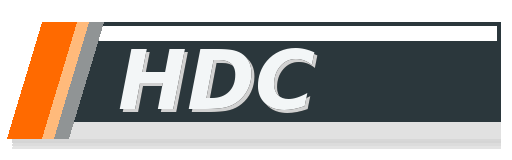
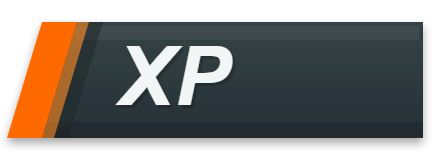
Rework sticker for XP branding; fix band transparency bug
The badge text changes HDC -> XP. Since XP is ~77px narrower in the same
82px Arial Bold Italic, the panel right edge moves 500 -> 423 and the
canvas 512 -> 435, preserving the text-to-edge gap; the slanted stripe
cluster and text position are untouched (no axis scaling).

The regenerated PNG (Chromium render, alpha reconstructed from white/black
passes) also fixes a long-standing artifact: the old PNG renderer punched
the sheen/shade bands and text shadow through the panel as semi-transparent
knockouts, so composited previews showed the screenshot through the sticker.
The bands now composite over the panel as the SVG intended.

HDC_STICKER_WIDTH_FRACTION scales by 435/512 so the badge keeps the same
on-screen size on generated previews.

diff --git a/beamng_hand_drive_core.py b/beamng_hand_drive_core.py
@@ -2237,7 +2237,9 @@ def source_preview_path(source_zip: Path, vehicle_path: str, config_name: str) -
 HDC_STICKER_ANCHOR = "top_left"  # top_left, top_right, bottom_left, bottom_right
 HDC_STICKER_ORIGIN_X_FRACTION = 0.02
 HDC_STICKER_ORIGIN_Y_FRACTION = 0.18
-HDC_STICKER_WIDTH_FRACTION = 0.25
+# 0.25 tuned against the 512px-wide HDC sticker; the XP sticker is 435px wide
+# at the same height, so 0.25 * 435/512 keeps the on-screen badge size equal.
+HDC_STICKER_WIDTH_FRACTION = 0.2124
 
 
 def hdc_sticker_path() -> Path | None: